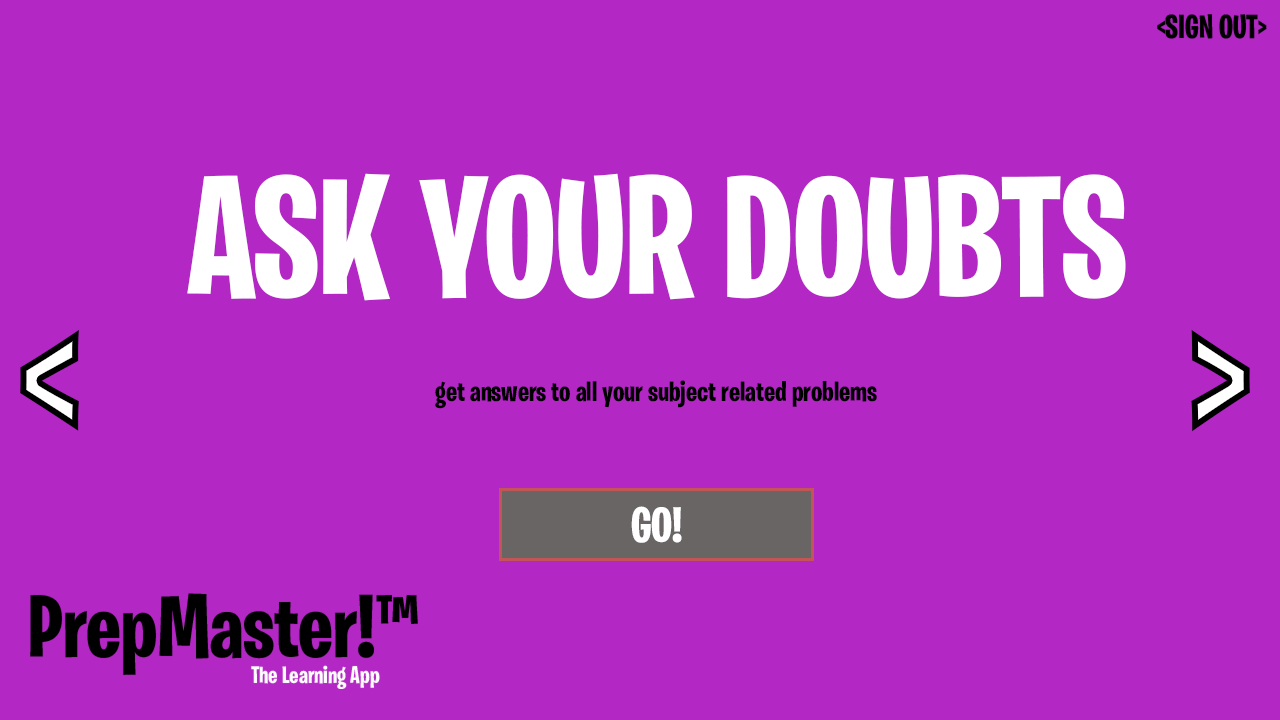
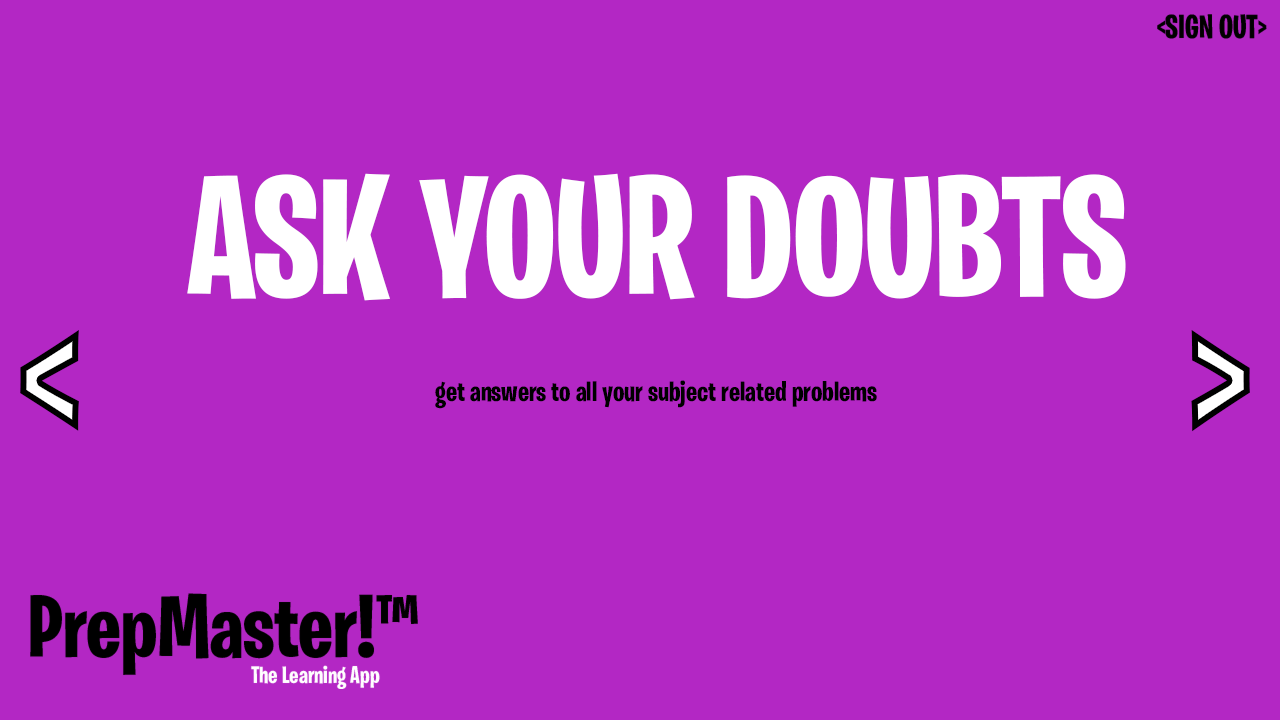
Add files via upload

Changed region(s): [[0.375, 0.6722, 0.6562, 0.7944]]

diff --git a/homepagestarter.py b/homepagestarter.py
@@ -60,11 +60,11 @@ def homepageaction():
         less_display['font'] = less_font
         less_display.place(x=5, y=332, width=80, height=100)
         display = tkinter.Button(root, 
-                            text = 'GO',
+                            text = 'GO!',
                             font='BurbankBigCondensed-Bold 25',
                             bg='#57595c',
                             fg='white',
-                            command = lambda:selectsubject()).place(x=480, y=490, width=320, height=75)
+                            command = lambda:selectsubject()).place(x=480, y=486, width=320, height=75)
 
         display = tk.Button(root,
                             text="<SIGN OUT>",
@@ -72,8 +72,7 @@ def homepageaction():
                             fg="black",
                             bg="#22C53A",
                             borderwidth=0,
-                            command = lambda:signout()
-                            ).place(x=900, y=1.15, width=500, height=50)
+                            command = lambda:signout()).place(x=970, y=1.15, width=300, height=50)
 
 
     def homemcq():
@@ -114,11 +113,11 @@ def homepageaction():
         less_display.place(x=5, y=333, width=80, height=100)
 
         display = tk.Button(root, 
-                            text = 'GO',
+                            text = 'GO!',
                             font='BurbankBigCondensed-Bold 25',
                             bg='#57595c',
                             fg='white',
-                            command = lambda:selecttest()).place(x=487, y=492, width=320, height=75)
+                            command = lambda:selecttest()).place(x=480, y=486, width=320, height=75)
 
         display = tk.Button(root,
                             text="<SIGN OUT>",
@@ -166,18 +165,18 @@ def homepageaction():
         less_display.place(x=5, y=332, width=80, height=100)
 
         display = tk.Button(root, 
-                            text = 'GO',
+                            text = 'GO!',
                             font='BurbankBigCondensed-Bold 25',
                             bg='#57595c',
                             fg='white',
-                            command = lambda:selectsubject()).place(x=500, y=490, width=320, height=75)
+                            command = lambda:selectsubject()).place(x=480, y=486, width=320, height=75)
 
         display = tk.Button(root,
                             text="<SIGN OUT>",
                             font="BurbankBigCondensed-Bold 17",
                             fg="black",
                             bg="#C5AE22",
-                            borderwidth=0,).place(x=980, y=1.15, width=300, height=50)
+                            borderwidth=0,).place(x=970, y=1.15, width=300, height=50)
                         
     def homedoubt():
         frame = Frame(root, width=1280, height=720)
@@ -215,10 +214,10 @@ def homepageaction():
         less_display.place(x=5, y=332, width=80, height=100)
 
         display = tk.Button(root, 
-                            text = 'GO',
+                            text = 'GO!',
                             font='BurbankBigCondensed-Bold 25',
                             bg='#57595c',
-                            fg='white').place(x=503, y=490, width=320, height=75)
+                            fg='white').place(x=480, y=486, width=320, height=75)
 
         display = tk.Button(root,
                             text="<SIGN OUT>",
@@ -226,7 +225,7 @@ def homepageaction():
                             fg="black",
                             bg="#B327C4",
                             borderwidth=0,
-                            command = lambda:signout()).place(x=980, y=1.15, width=300, height=50)
+                            command = lambda:signout()).place(x=970, y=1.15, width=300, height=50)
 
 
 
